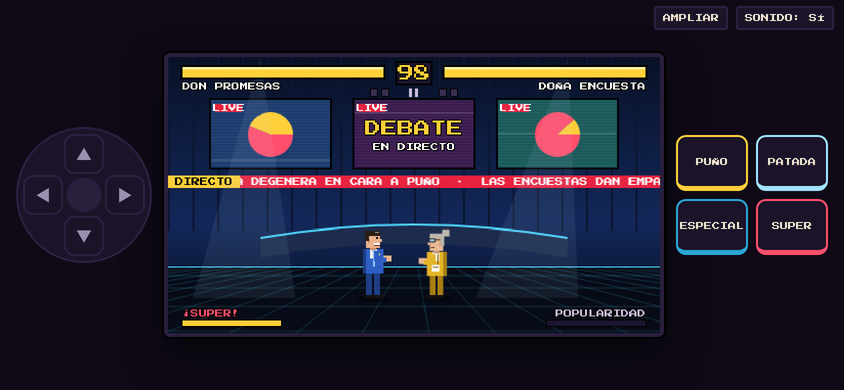
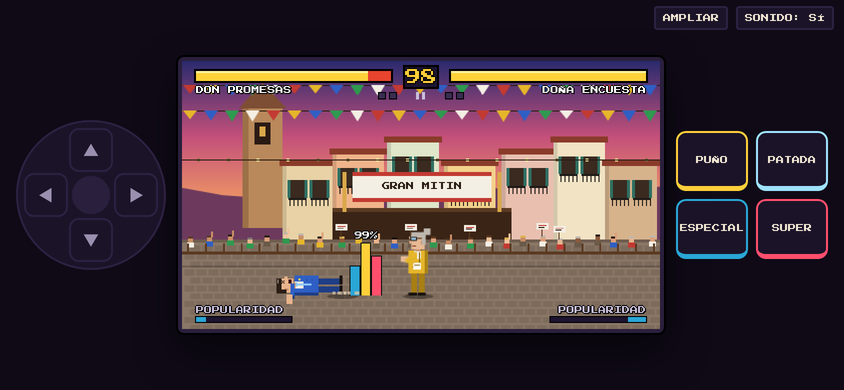
README de la versión 2 con capturas nuevas

diff --git a/README.md b/README.md
@@ -4,7 +4,7 @@
 
 **Cuatro candidatos. Un hemiciclo. Ninguna propuesta.**
 
-Juego de lucha 2D al estilo de las recreativas de los 90, con políticos ficticios y golpes especiales sacados del día a día parlamentario.
+Juego de lucha 2D al estilo de las recreativas de los 90, con políticos ficticios, combos, golpes especiales y un jefe final que nunca se presenta a las elecciones.
 
 [![Jugar ahora](https://img.shields.io/badge/▶_JUGAR_AHORA-ffcf3a?style=for-the-badge&labelColor=0f0a16)](https://serbenda.github.io/hemiciclo-fighters/)
 
@@ -12,10 +12,11 @@ Juego de lucha 2D al estilo de las recreativas de los 90, con políticos fictici
 ![JavaScript](https://img.shields.io/badge/JavaScript-vanilla-f7df1e?logo=javascript&logoColor=black)
 ![Sin dependencias](https://img.shields.io/badge/dependencias-0-2e9a4f)
 ![Móvil](https://img.shields.io/badge/móvil-táctil-2f5fc4)
+![Sin conexión](https://img.shields.io/badge/funciona-sin_conexión-c23a32)
 
 <br><br>
 
-<img src="docs/img/combate.gif" alt="Don Promesas contra Doña Encuesta en el hemiciclo" width="720">
+<img src="docs/img/combate.gif" alt="El Barón contra Don Promesas en el hemiciclo" width="720">
 
 </div>
 
@@ -23,39 +24,66 @@ Juego de lucha 2D al estilo de las recreativas de los 90, con políticos fictici
 
 ## Índice
 
-- [Cómo se juega](#cómo-se-juega)
+- [Novedades de la versión 2](#novedades-de-la-versión-2)
+- [Modos de juego](#modos-de-juego)
 - [Capturas](#capturas)
 - [Candidatos](#candidatos)
 - [Controles](#controles)
+- [Combos y movimientos](#combos-y-movimientos)
 - [En el móvil](#en-el-móvil)
 - [Reglas del combate](#reglas-del-combate)
+- [Escenarios](#escenarios)
+- [Instalar como app](#instalar-como-app)
 - [Ejecutar en local](#ejecutar-en-local)
-- [Estructura del proyecto](#estructura-del-proyecto)
+- [Cómo está hecho](#cómo-está-hecho)
 - [Flujo de trabajo](#flujo-de-trabajo)
-- [Ideas para próximas versiones](#ideas-para-próximas-versiones)
 
-## Cómo se juega
+## Novedades de la versión 2
 
-1. Elige modo: **1 jugador contra la CPU** o **2 jugadores** en el mismo teclado.
-2. Escoge candidato.
-3. Gana el debate llevándote **2 de 3 rondas**: deja al rival sin vida o termina con más vida cuando se acabe el tiempo.
+- **Golpes con peso**: cada impacto congela la acción un instante, más largo cuanto más fuerte es el golpe, con temblor de pantalla, destello y sonido distinto para golpes ligeros, fuertes y la super.
+- **Combos** con contador en pantalla (`3 HITS`), encadenando puño → patada → especial. El daño baja un poco con cada golpe del combo.
+- **Especiales con secuencia**: ↓↘→ + puño, como en las recreativas. Los botones de especial y super siguen funcionando.
+- **Modo arcade** con jefe final secreto, fase de bonus, pantalla de continuar, puntuación y un final distinto para cada candidato.
+- **CPU con tres niveles** de dificultad. En difícil se cubre, castiga los fallos, para los saltos y hace combos.
+- **Música chiptune** propia para cada escenario y para el jefe, generada en el navegador.
+- **Voz del presentador**: "Ronda uno", "¡A debate!", "¡K.O.!", "¡Mayoría absoluta!".
+- **Nuevo escenario**: el mitin en la plaza del pueblo.
+- **Más animación**: preparación y recuperación de cada golpe, dos tipos de caída y un público que se levanta con pancartas.
+- **Opciones y récords** guardados en el dispositivo: dificultad, música, efectos, voces y tamaño de los botones táctiles.
+- **Modo demo**: si nadie toca nada en el título, la CPU juega sola.
+- **App instalable** que funciona sin conexión.
 
-Cada golpe que das o recibes llena tu barra de **Popularidad**. Cuando está llena, puedes lanzar la **Moción de Censura**: una urna gigante cae del cielo sobre tu rival.
+## Modos de juego
+
+| Modo | Descripción |
+|---|---|
+| **Arcade** | Dos rivales, la fase de bonus del coche oficial, un tercer rival y el jefe final. Al perder puedes seguir a cambio de la mitad de los puntos. |
+| **1 jugador vs CPU** | Un combate suelto contra un rival al azar. |
+| **2 jugadores** | Dos personas en el mismo teclado. |
+| **Demo** | Arranca sola en el título tras 15 segundos sin tocar nada. |
 
 ## Capturas
 
 <table>
 <tr>
-<td width="50%"><img src="docs/img/titulo.png" alt="Pantalla de título"><br><sub><b>Título.</b> Elige entre 1 jugador contra la CPU o 2 jugadores.</sub></td>
-<td width="50%"><img src="docs/img/seleccion.png" alt="Selección de candidato"><br><sub><b>Selección.</b> Cada candidato tiene sus estadísticas y su especial.</sub></td>
+<td width="50%"><img src="docs/img/titulo.png" alt="Pantalla de título"><br><sub><b>Título.</b> Arcade, combate suelto, 2 jugadores, opciones y récords.</sub></td>
+<td width="50%"><img src="docs/img/seleccion.png" alt="Selección de candidato"><br><sub><b>Selección.</b> Estadísticas y especial de cada candidato.</sub></td>
 </tr>
 <tr>
-<td><img src="docs/img/plato.png" alt="Combate en el plató de televisión"><br><sub><b>El plató.</b> Segundo escenario, con monitores y teletipo en directo.</sub></td>
-<td><img src="docs/img/mocion.png" alt="Moción de Censura"><br><sub><b>Moción de Censura.</b> La super, cuando la barra de Popularidad está llena.</sub></td>
+<td><img src="docs/img/combo.png" alt="Combo de tres golpes"><br><sub><b>Combos.</b> Puño, patada y especial: 3 HITS.</sub></td>
+<td><img src="docs/img/plaza.png" alt="Combate en la plaza del pueblo"><br><sub><b>La plaza.</b> El escenario nuevo, con guirnaldas y el mitin al fondo.</sub></td>
 </tr>
 <tr>
-<td><img src="docs/img/ko.png" alt="K.O. en el hemiciclo"><br><sub><b>K.O.</b> En el hemiciclo, con la bancada en pie.</sub></td>
-<td><img src="docs/img/victoria.png" alt="Pantalla de victoria"><br><sub><b>Victoria.</b> Cada candidato tiene su frase para celebrarlo.</sub></td>
+<td><img src="docs/img/bonus.png" alt="Fase de bonus del coche oficial"><br><sub><b>Fase de bonus.</b> 30 segundos para destrozar el coche oficial.</sub></td>
+<td><img src="docs/img/jefe.png" alt="Presentación del jefe final"><br><sub><b>El jefe final.</b> El Lobby aparece al final del arcade.</sub></td>
+</tr>
+<tr>
+<td><img src="docs/img/opa-hostil.png" alt="Super del jefe final"><br><sub><b>Opa Hostil.</b> La super del jefe: una caja fuerte del cielo.</sub></td>
+<td><img src="docs/img/final.png" alt="Final de la Ministra Recortes"><br><sub><b>Finales.</b> Cada candidato tiene el suyo.</sub></td>
+</tr>
+<tr>
+<td><img src="docs/img/continuar.png" alt="Pantalla de continuar"><br><sub><b>¿Seguir en política?</b> Cuenta atrás para continuar.</sub></td>
+<td><img src="docs/img/opciones.png" alt="Opciones"><br><sub><b>Opciones.</b> Se guardan en el dispositivo.</sub></td>
 </tr>
 </table>
 
@@ -65,10 +93,13 @@ Cada golpe que das o recibes llena tu barra de **Popularidad**. Cuando está lle
 
 | | Candidato | Especial | Velocidad | Pegada | Aguante |
 |---|---|---|:---:|:---:|:---:|
-| 🔵 | **Don Promesas** | *Promesa Electoral*: lanza un bocadillo con una promesa que golpea al llegar | ★★★☆☆ | ★★★☆☆ | ★★★☆☆ |
+| 🔵 | **Don Promesas** | *Promesa Electoral*: lanza un bocadillo con una promesa | ★★★☆☆ | ★★★☆☆ | ★★★☆☆ |
 | 🟢 | **Ministra Recortes** | *Tijeretazo*: unas tijeras giratorias que cruzan la pantalla | ★★★★☆ | ★★★☆☆ | ★★☆☆☆ |
-| 🔴 | **El Barón** | *Puerta Giratoria*: embestida girando dentro de una puerta giratoria que derriba | ★★☆☆☆ | ★★★★★ | ★★★★★ |
-| 🟡 | **Doña Encuesta** | *Cocina de Encuestas*: unas barras de sondeo brotan del suelo delante del rival | ★★★★★ | ★★☆☆☆ | ★★☆☆☆ |
+| 🔴 | **El Barón** | *Puerta Giratoria*: embestida dentro de una puerta giratoria que derriba | ★★☆☆☆ | ★★★★★ | ★★★★★ |
+| 🟡 | **Doña Encuesta** | *Cocina de Encuestas*: barras de sondeo que brotan del suelo | ★★★★★ | ★★☆☆☆ | ★★☆☆☆ |
+| 🟣 | **El Lobby** *(secreto)* | *Maletín*: un maletín que suelta euros al golpear | ★★★★☆ | ★★★★☆ | ★★★★☆ |
+
+Todos comparten la super **Moción de Censura**, una urna gigante que cae sobre el rival, menos El Lobby, que tiene la suya: **Opa Hostil**. El Lobby se desbloquea al completar el modo arcade con cualquier candidato.
 
 > **Don Promesas.** Lleva treinta años prometiendo lo mismo. Y le sigue funcionando.
 >
@@ -77,10 +108,10 @@ Cada golpe que das o recibes llena tu barra de **Popularidad**. Cuando está lle
 > **El Barón.** Manda en su provincia desde antes de que existieran las provincias.
 >
 > **Doña Encuesta.** Te dice quién va a ganar antes de que nadie haya votado.
+>
+> **El Lobby.** Nunca se presenta a las elecciones. No le hace falta.
 
 ## Controles
-
-### Teclado
 
 | Acción | Jugador 1 | Jugador 2 |
 |---|:---:|:---:|
@@ -95,25 +126,35 @@ Cada golpe que das o recibes llena tu barra de **Popularidad**. Cuando está lle
 
 Jugando contra la CPU, el jugador 1 también puede usar las flechas y `Z` `X` `C` `V`.
 
-### Movimientos
+## Combos y movimientos
 
 | Movimiento | Cómo |
 |---|---|
+| Especial | `↓` `↘` `→` + puño, o el botón de especial |
+| Especial (alternativo) | `↓` `↙` `←` + patada |
+| Super | `↓` `↘` `→` `↓` `↘` `→` + puño con la barra llena, o el botón de super |
 | Cubrirse | Mantén **hacia atrás** (de pie o agachado) |
-| Barrido | **Agachado + patada**: derriba al rival |
+| Barrido | **Agachado + patada**: derriba |
 | Puño bajo | **Agachado + puño** |
 | Patada aérea | **Salta + puño o patada** |
-| Moción de Censura | **Super** con la barra de Popularidad llena |
+
+**Cómo encadenar:** si un golpe conecta, puedes cancelarlo en el siguiente antes de que el rival se recupere.
+
+- Puño → puño → patada
+- Puño → patada → especial
+- Puño bajo → barrido
+- Cualquier puño o patada → especial o super
+
+Un salto con patada seguido de puño, patada y especial al aterrizar es el combo más largo que hay.
 
 ## En el móvil
 
-- Se juega mejor **en horizontal**: la cruceta queda a la izquierda, la pantalla en el centro y los botones a la derecha.
-- La **cruceta se desliza**: mantén el dedo y muévelo para andar, saltar en diagonal o agacharte sin levantarlo.
+- Se juega **en horizontal**: cruceta a la izquierda, pantalla en el centro y botones a la derecha.
+- La **cruceta se desliza**: mantén el dedo y muévelo para andar, saltar en diagonal o agacharte. También sirve para las secuencias de especiales.
 - **Toca el reloj** para pausar. El juego también se pausa solo si cambias de app.
-- En **Android**, el botón **AMPLIAR** pone el juego a pantalla completa.
-- En **iPhone**, usa *Compartir → Añadir a pantalla de inicio* para abrirlo sin las barras del navegador.
-
-En el móvil solo está disponible el modo de 1 jugador.
+- En **Opciones** puedes cambiar el tamaño de los botones.
+- Los golpes **vibran** en Android.
+- En el móvil solo están los modos de 1 jugador.
 
 ## Reglas del combate
 
@@ -122,37 +163,61 @@ En el móvil solo está disponible el modo de 1 jugador.
 | Rondas | Al mejor de 3 |
 | Tiempo por ronda | 99 segundos |
 | Fin por tiempo | Gana quien tenga más vida; con la misma vida es **empate técnico** |
-| Victoria sin recibir daño | **¡Mayoría absoluta!** |
+| Victoria sin recibir daño | **¡Mayoría absoluta!** (30.000 puntos en arcade) |
 | Golpes cubiertos | Los especiales y la super hacen algo de daño aunque te cubras |
-| Derribos | Barrido, Puerta Giratoria, Cocina de Encuestas, Moción de Censura y cualquier golpe en el aire |
+| Derribos | Barrido, Puerta Giratoria, Cocina de Encuestas, las supers y cualquier golpe en el aire |
+| Puntos (arcade) | Daño × combo, más vitalidad y tiempo restante al ganar cada ronda |
+
+## Escenarios
+
+| Escenario | Detalles |
+|---|---|
+| **El hemiciclo** | Claraboya, reloj, mesa de la presidencia y una bancada que se levanta con pancartas en cada golpe fuerte. Con luz morada cuando aparece el jefe. |
+| **El plató** | Monitores con gráficos en directo, focos y un teletipo con las últimas noticias del cara a cara. |
+| **La plaza** | Atardecer, iglesia con nido de cigüeña, guirnaldas, la tarima del mitin y el público detrás de la valla. |
+
+Cada escenario tiene su propia música.
+
+## Instalar como app
+
+Desde la web publicada:
+
+- **Android (Chrome)**: menú ⋮ → *Instalar aplicación* o *Añadir a pantalla de inicio*.
+- **iPhone (Safari)**: *Compartir* → *Añadir a pantalla de inicio*.
+- **Ordenador (Chrome o Edge)**: icono de instalar en la barra de direcciones.
+
+Una vez abierto, el juego se guarda en el dispositivo y funciona sin conexión.
 
 ## Ejecutar en local
-
-No necesita instalación, servidor ni conexión (salvo para cargar la tipografía).
 
 ```bash
 git clone https://github.com/serbenda/hemiciclo-fighters.git
 cd hemiciclo-fighters
-# abre index.html en el navegador
-```
-
-Para probarlo en el móvil desde tu red local, sírvelo y abre la IP de tu ordenador:
-
-```bash
 python3 -m http.server 8000
 # http://localhost:8000
 ```
 
-## Estructura del proyecto
+También se puede abrir `index.html` directamente en el navegador; en ese caso no se instala como app.
+
+## Cómo está hecho
 
 ```
 hemiciclo-fighters/
-├── index.html      # el juego completo: estilos, interfaz y lógica
-├── docs/img/       # capturas y GIF del README
+├── index.html             # el juego completo: estilos, interfaz y lógica
+├── manifest.webmanifest   # datos para instalarlo como app
+├── sw.js                  # guarda el juego para jugar sin conexión
+├── icons/                 # iconos de la app
+├── docs/img/              # capturas y GIF del README
 └── README.md
 ```
 
-Todo está en un único `index.html`, sin librerías ni imágenes externas. Los personajes, escenarios y efectos se dibujan con Canvas 2D a 480×270 píxeles y se escalan con `image-rendering: pixelated`. El sonido se genera con Web Audio. La tipografía es [Press Start 2P](https://fonts.google.com/specimen/Press+Start+2P).
+- **Sin librerías ni imágenes externas.** Personajes, escenarios y efectos se dibujan con Canvas 2D a 480×270 píxeles y se escalan con `image-rendering: pixelated`.
+- **Bucle fijo a 60 fotogramas por segundo**, con congelación de impacto, cámara lenta en el K.O. y pausa.
+- **Golpes por fotogramas**: cada ataque tiene arranque, fase activa y recuperación, con su caja de golpe y la de daño del rival.
+- **Secuencias de botones** leídas de un historial de direcciones en notación numérica (2 = abajo, 3 = abajo-adelante, 6 = adelante).
+- **Música y efectos** con Web Audio: osciladores y ruido, sin archivos de sonido. La voz usa la síntesis de voz del navegador.
+- **Opciones y récords** en `localStorage`.
+- Tipografía [Press Start 2P](https://fonts.google.com/specimen/Press+Start+2P).
 
 ## Flujo de trabajo
 
@@ -161,27 +226,13 @@ Todo está en un único `index.html`, sin librerías ni imágenes externas. Los 
 | `main` | Versión publicada en GitHub Pages |
 | `development` | Desarrollo; los cambios llegan a `main` mediante pull request |
 
-1. Trabaja en `development` (o en una rama que salga de ella).
-2. Abre una PR `development → main`.
-3. Al fusionarla, GitHub Pages publica la nueva versión.
-
-## Escenarios
-
-| Escenario | Detalles |
-|---|---|
-| **El hemiciclo** | Claraboya, reloj, mesa de la presidencia y una bancada que se levanta con cada golpe fuerte |
-| **El plató** | Monitores con gráficos en directo, focos y un teletipo con las últimas noticias del cara a cara |
-
-El escenario se elige al azar en cada combate.
-
 ## Ideas para próximas versiones
 
 - [ ] Editor de candidatos: nombre, colores, peinado y frases
-- [ ] Más escenarios: pleno del Senado, mitin en la plaza del pueblo, plató de tertulia nocturna
-- [ ] Niveles de dificultad de la CPU
-- [ ] Modo campaña: ganar a todos los candidatos seguidos
-- [ ] Combos y movimientos con secuencias de botones
-- [ ] Música de fondo
+- [ ] Modo supervivencia: todos contra ti con una sola barra de vida
+- [ ] Llaves y lanzamientos cuerpo a cuerpo
+- [ ] Mando físico con la Gamepad API
+- [ ] Tabla de récords con iniciales
 
 ---
 
